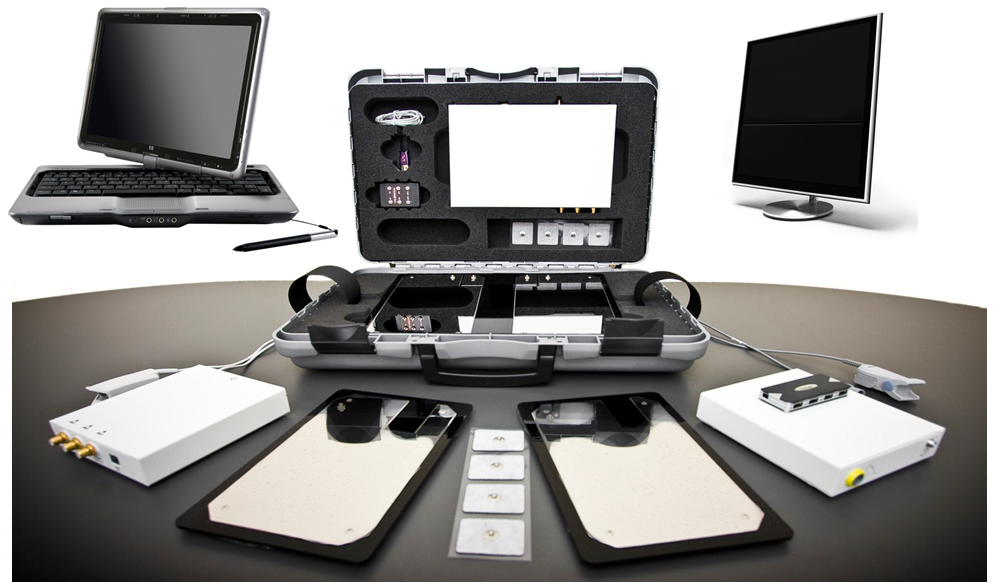
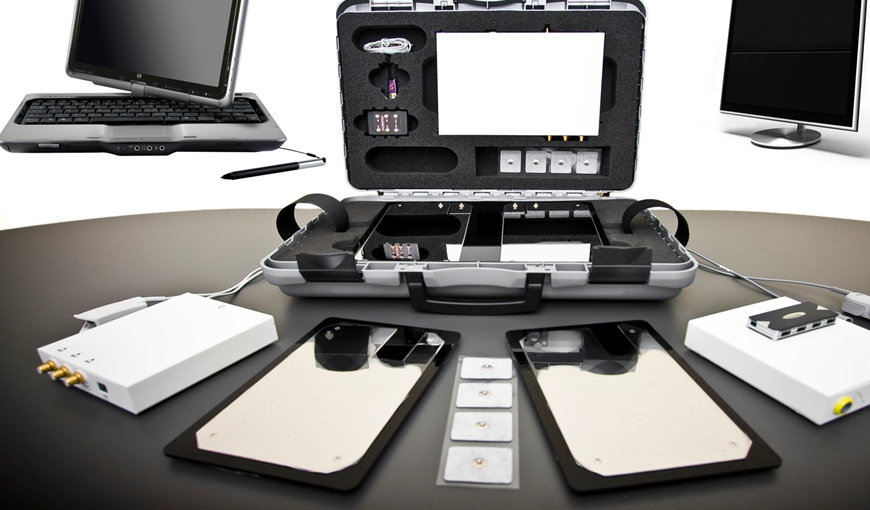
fix(assets): recortar margenes blancos sobrantes de captura original es-complex a 870x510

diff --git a/servicios/es-complex.html b/servicios/es-complex.html
@@ -125,7 +125,7 @@
         
         <!-- Main Content -->
         <article class="subpage-content">
-          <img src="../assets/img/technology/es-complex.png?v=a4183b4a" alt="Sistema de Pre-diagnóstico Biointersticial ES-Complex en Vitametric CDMX" style="width: 100%; height: auto; display: block; border-radius: var(--radius-md); margin-bottom: 2.5rem; border: 1px solid var(--c-border); box-shadow: var(--shadow-md);" loading="eager" fetchpriority="high" decoding="async">
+          <img src="../assets/img/technology/es-complex.png?v=873d76e6" alt="Sistema de Pre-diagnóstico Biointersticial ES-Complex en Vitametric CDMX" style="width: 100%; height: auto; display: block; border-radius: var(--radius-md); margin-bottom: 2.5rem; border: 1px solid var(--c-border); box-shadow: var(--shadow-md);" loading="eager" fetchpriority="high" decoding="async">
           
           <!-- Sección 1: Fundamento EIS -->
           <div class="rizo-micro-section rizo-micro-section--icon" style="margin-bottom: 2.75rem;">
